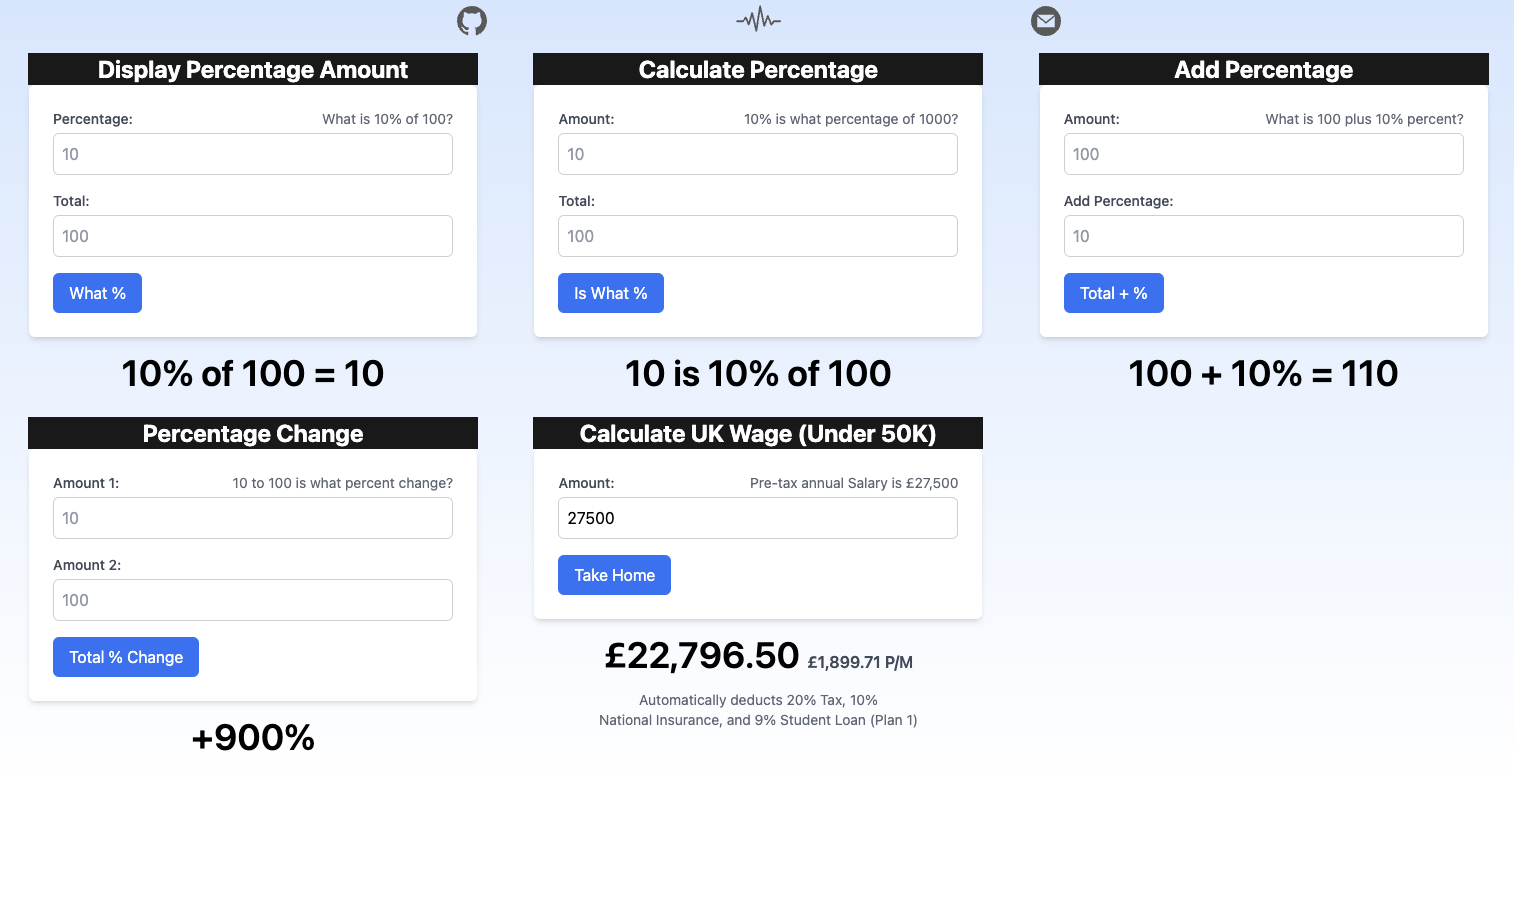
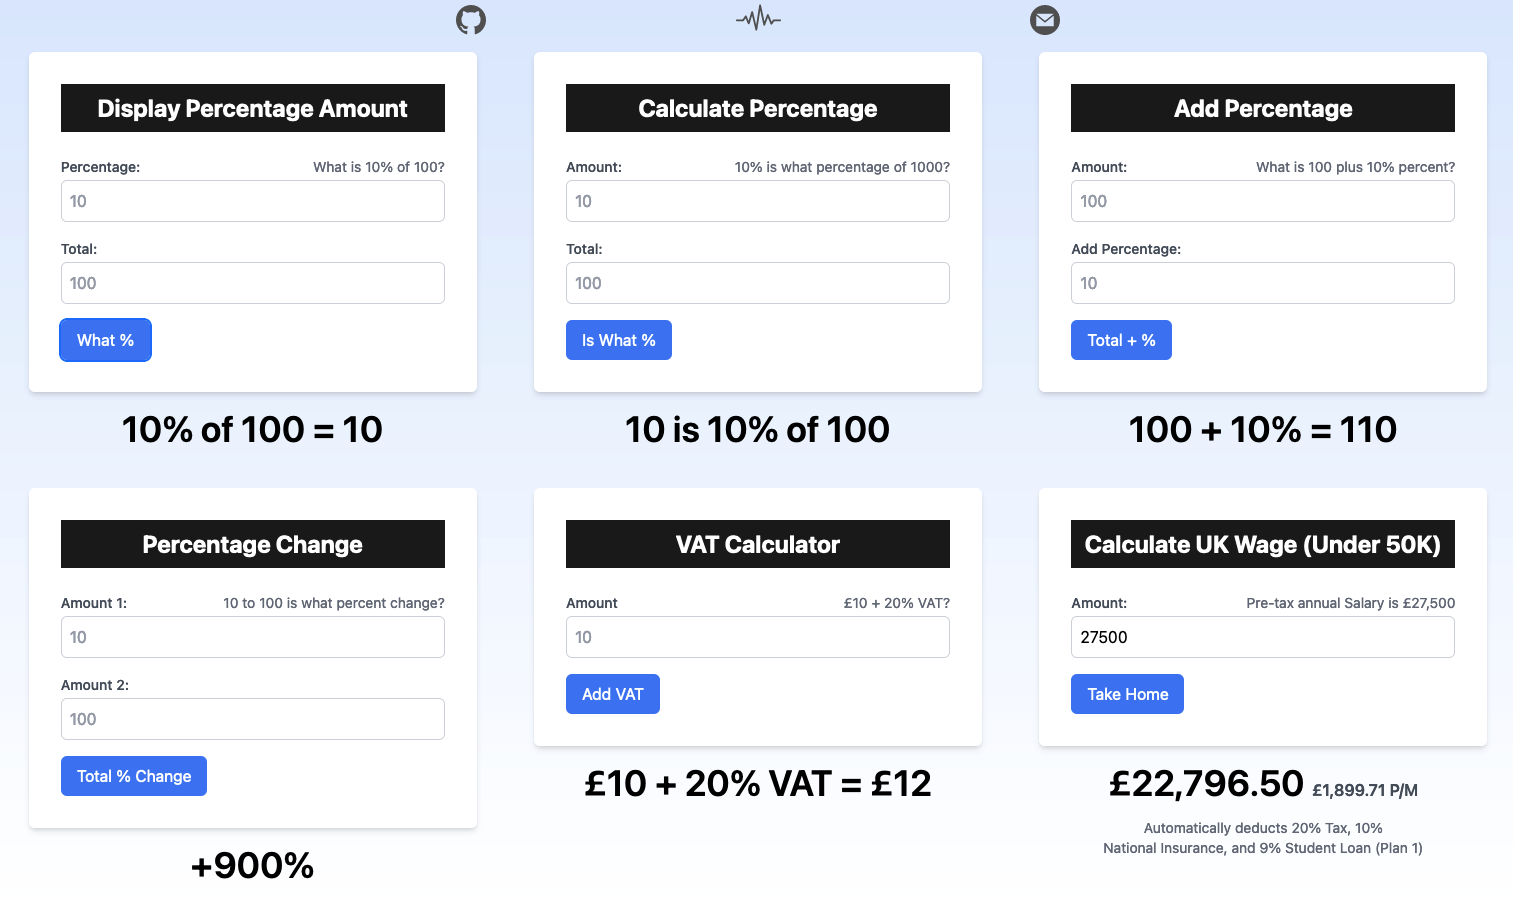
add vat calculator + tweak styles + add new preview image

diff --git a/index.html b/index.html
@@ -28,14 +28,21 @@
   </nav>
 
 
+<!--  -->
+<!--  -->
+<!--  -->
+
+<!-- CONTAINER -->
+<main class="max-w-[1500px] mx-2 xl:mx-auto ">
+
   <!-- GRID -->
-  <div class="max-w-[1500px] md:grid md:grid-cols-2 xl:grid-cols-3 md:gap-x-4 mx-2 xl:mx-auto">
+  <div class="md:flex md:flex-wrap md:gap-4">
      
 
-   <div>
-    <h2 class="max-w-[450px] mx-auto text-center text-2xl font-bold">Display Percentage Amount</h2>
+   <div class="md:min-w-[450px] mx-auto">
 
-    <form id="percentageForm" class="max-w-md mx-auto bg-white p-6 rounded-md shadow-md">
+    <form id="percentageForm" class="max-w-md mx-auto bg-white p-8 rounded-md shadow-md">
+    <h2 class="text-center text-2xl font-bold mb-6 p-2">Display Percentage Amount</h2>
 
       <div class="mb-4">
         <div class="flex justify-between">
@@ -64,10 +71,11 @@
   <!--  -->
   <!--  -->
 
-<div>
-  <h2 class="max-w-[450px] mx-auto text-center text-2xl font-bold">Calculate Percentage</h2>
+<div class="md:min-w-[450px] mx-auto">
 
-    <form id="percentageForm2" class="max-w-md mx-auto bg-white p-6 rounded-md shadow-md">
+    <form id="percentageForm2" class="max-w-md mx-auto bg-white p-8 rounded-md shadow-md">
+    
+    <h2 class="text-center text-2xl font-bold mb-6 p-2">Calculate Percentage</h2>
 
       <div class="mb-4">
         <div class="flex justify-between">
@@ -95,11 +103,12 @@
   <!--  -->
   <!--  -->
 
-  <div>
-  <h2 class="max-w-[450px] mx-auto text-center text-2xl font-bold">Add Percentage</h2>
+  <div class="md:min-w-[450px] mx-auto">
 
-    <form id="percentageForm3" class="max-w-md mx-auto bg-white p-6 rounded-md shadow-md">
+    <form id="percentageForm3" class="max-w-md mx-auto bg-white p-8 rounded-md shadow-md">
 
+    <h2 class="text-center text-2xl font-bold mb-6 p-2">Add Percentage</h2>
+    
       <div class="mb-4">
         <div class="flex justify-between">
           <label for="amount3" class="block text-sm font-medium text-gray-600">Amount:</label>
@@ -123,15 +132,16 @@
 
 
 
-<!--  -->
   <!--  -->
   <!--  -->
+  <!--  -->
 
-  <div>
-  <h2 class="max-w-[450px] mx-auto text-center text-2xl font-bold">Percentage Change</h2>
+  <div class="md:min-w-[450px] mx-auto">
 
-    <form id="percentageForm4" class="max-w-md mx-auto bg-white p-6 rounded-md shadow-md">
+    <form id="percentageForm4" class="max-w-md mx-auto bg-white p-8 rounded-md shadow-md">
 
+    <h2 class="text-center text-2xl font-bold mb-6 p-2">Percentage Change</h2>
+    
       <div class="mb-4">
         <div class="flex justify-between">
           <label for="amount4a" class="block text-sm font-medium text-gray-600">Amount 1:</label>
@@ -153,16 +163,42 @@
   </div>
 
 
-
-
   <!--  -->
   <!--  -->
   <!--  -->
 
-  <div>
-    <h2 class="max-w-[450px] mx-auto text-center text-2xl font-bold">Calculate UK Wage (Under 50K)</h2>
+  <div class="md:min-w-[450px] mx-auto">
+
+    <form id="vatcalc" class="max-w-md mx-auto bg-white p-8 rounded-md shadow-md">
+
+    <h2 class="text-center text-2xl font-bold mb-6 p-2">VAT Calculator</h2>
     
-    <form id="percentageForm5" class="max-w-md mx-auto bg-white p-6 rounded-md shadow-md">
+      <div class="mb-4">
+        <div class="flex justify-between">
+          <label for="vatcalc" class="block text-sm font-medium text-gray-600">Amount</label>
+          <span class="text-right text-sm text-gray-500">£10 + 20% VAT?</span>
+        </div>
+
+        <input type="string" id="vatAmount" class="mt-1 p-2 border border-gray-300 rounded-md w-full" placeholder="10" required>
+      </div>
+
+      <button type="button" onclick="addVat()" class="bg-blue-500 text-white py-2 px-4 rounded-md">Add VAT</button>
+    </form>
+
+    <p id="vatResult" class="text-center mt-4 mb-6 text-4xl font-semibold"></p>
+  </div>
+
+
+
+  <!--  -->
+  <!--  -->
+  <!--  -->
+
+  <div class="md:min-w-[450px] mx-auto">
+    
+    <form id="percentageForm5" class="max-w-md mx-auto bg-white p-8 rounded-md shadow-md">
+    
+    <h2 class="text-center text-2xl font-bold mb-6 p-2">Calculate UK Wage (Under 50K)</h2>
 
       <div class="mb-4">
         <div class="flex justify-between">
@@ -172,8 +208,9 @@
 
         <input type="string" id="total5" class="mt-1 p-2 border border-gray-300 rounded-md w-full" placeholder="27500" required onfocus="clearInput()">
       </div>
-
+      
       <button type="button" onclick="calculateWagesUnder50K()" class="bg-blue-500 text-white py-2 px-4 rounded-md">Take Home</button>
+      
     </form>
 
     <p id="result5" class="text-center mt-4 text-4xl font-semibold"></p>
@@ -182,6 +219,7 @@
 
 
 
+</main>
 
 <script src="app.js"></script>
 </body>

diff --git a/app.js b/app.js
@@ -110,6 +110,29 @@ function calcPercentageChange() {
 }
 
 
+// 
+// 
+// 
+// 
+
+
+function addVat() {
+  const amountInput = document.getElementById('vatAmount');
+  const resultElement = document.getElementById('vatResult');
+
+  const amount = parseFloat(amountInput.value);
+
+  if (!isNaN(amount)) {
+    const calculatedPercentage = amount + (amount * 20 / 100);
+    
+    resultElement.textContent = `£${amountInput.value} + 20% VAT = £${calculatedPercentage}`;
+  } else {
+    resultElement.textContent = 'Please enter valid numeric values.';
+  }
+
+  amountInput.value = '';
+}
+
 
 
 // 
